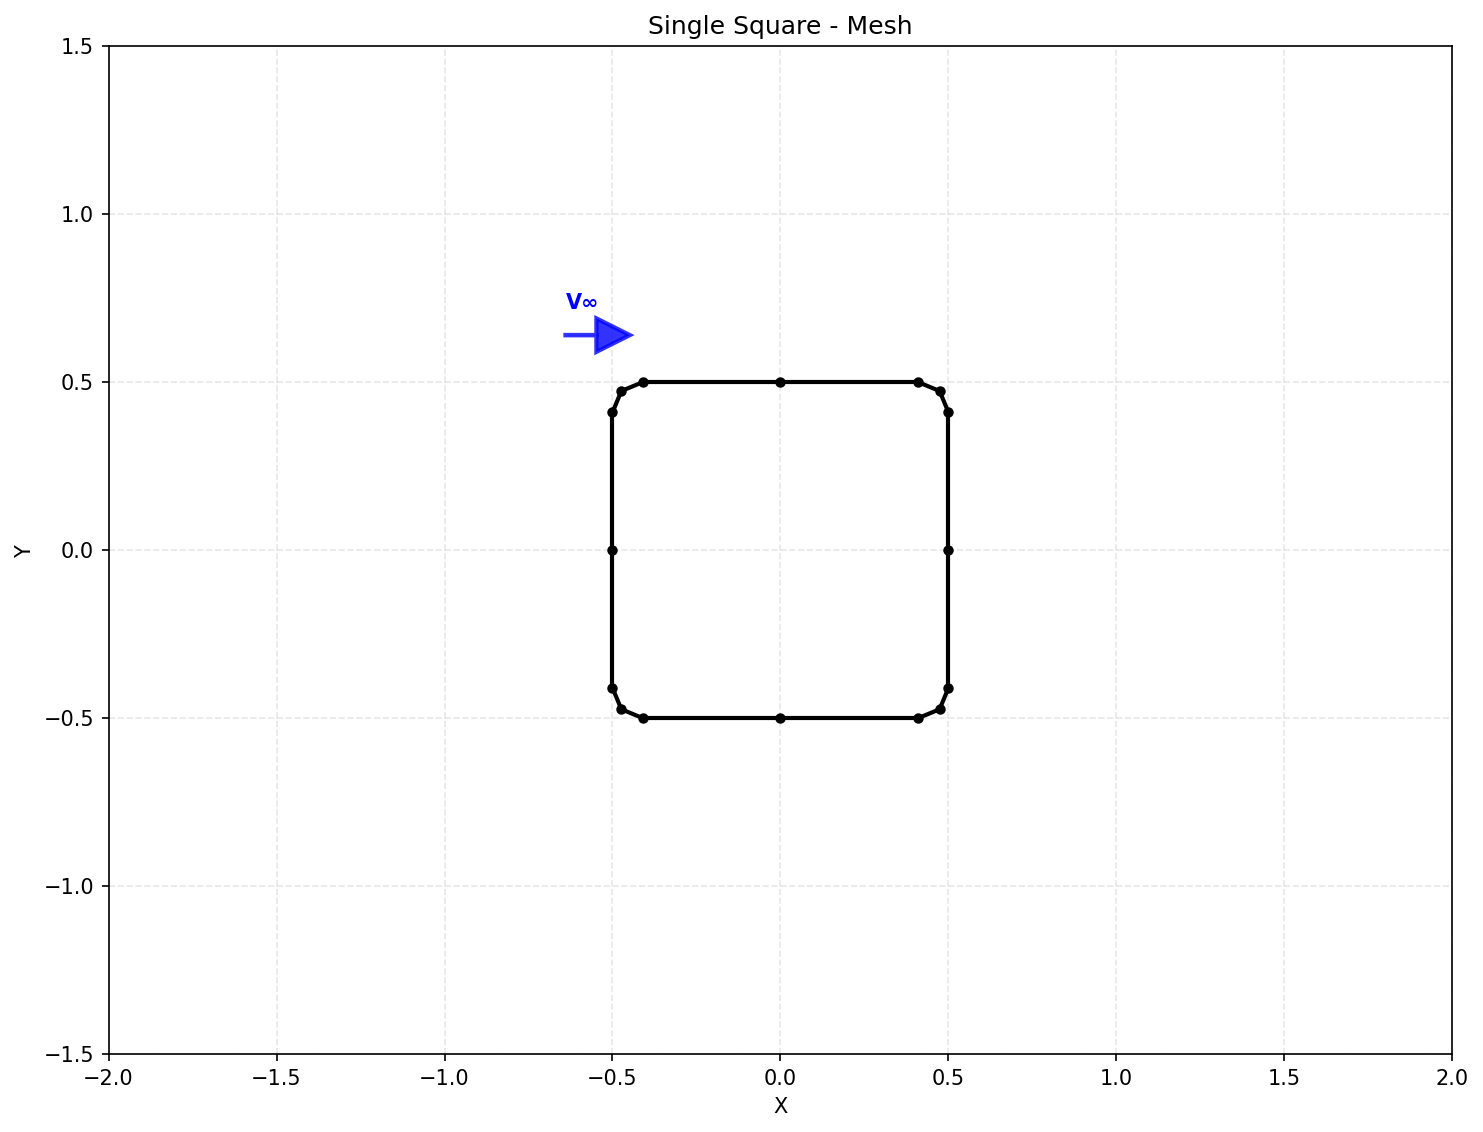
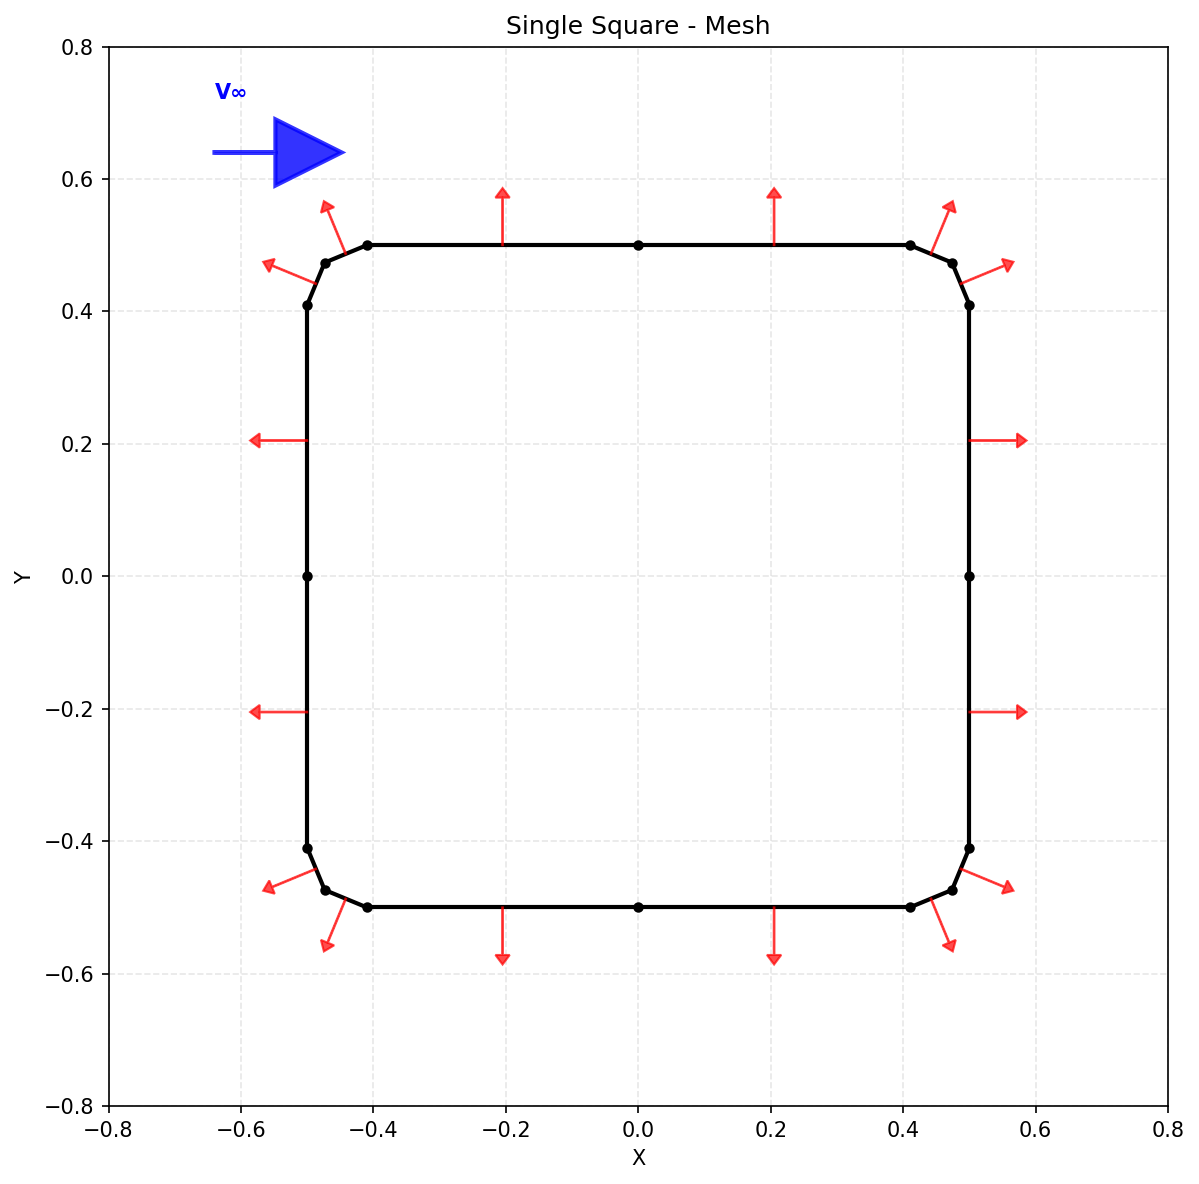
refactor surface potential and velocity computations; add potential influence function and update plotting parameters

diff --git a/src/solvers/panel2d/spm.py b/src/solvers/panel2d/spm.py
@@ -6,7 +6,7 @@ from pathlib import Path
 
 from core.geometry.mesh import Mesh
 from .base import PanelSolver2D, PanelMethodConfig
-from .influences import compute_source_influence_matrices, compute_source_velocity_influence
+from .influences import compute_source_influence_matrices, compute_source_velocity_influence,compute_source_potential_influence
 
 
 class SourcePanelSolver(PanelSolver2D):
@@ -110,7 +110,7 @@ class SourcePanelSolver(PanelSolver2D):
         
         return {"source": sigma}
     
-    def _compute_surface_velocity(
+    def _compute_surface_velocity_from_summing_influences(
         self,
         influence_matrices: dict,
         strengths: dict
@@ -141,6 +141,23 @@ class SourcePanelSolver(PanelSolver2D):
         # Total tangential velocity
         Vt = v_inf_tangential + induced_tangential
         
+        return Vt
+    
+    def _compute_surface_velocity(
+        self,
+        influence_matrices: dict,
+        strengths: dict
+    ) -> NDArray[np.float64]:
+        """
+        Compute tangential velocity at panel centers using potential gradient.
+    
+        This method is more robust than direct velocity influence summation,
+        especially at corners where curvature changes rapidly.
+        """
+        # Use potential-based approach
+        Vt = self._compute_surface_velocity_from_potential()
+        # Vt = self._compute_surface_velocity_from_summing_influences(influence_matrices, strengths);
+    
         return Vt
     
     def _velocity_at_points(
@@ -259,7 +276,7 @@ class SourcePanelSolver(PanelSolver2D):
         sigma_std = np.std(self._sigma)
         
         print(f"Source strength statistics:")
-        print(f"  Sum σ:     {sigma_sum:.2e} (should ≈ 0 for closed bodies)")
+        print(f"  Sum σ:     {sigma_sum:.2e} ")
         print(f"  Min σ:     {sigma_min:.6f}")
         print(f"  Max σ:     {sigma_max:.6f}")
         print(f"  Mean σ:    {sigma_mean:.6f}")
@@ -305,3 +322,103 @@ class SourcePanelSolver(PanelSolver2D):
             plt.show()
         else:
             plt.close(fig)
+
+    def _compute_surface_potential(self) -> NDArray[np.float64]:
+        """
+        Compute total velocity potential at each panel center.
+    
+        Returns:
+            (N,) array of potential values at panel centers
+        """
+        n_panels = len(self._mesh.panels)
+        centers = self._mesh.centers[:, :2]
+    
+        # Get panel endpoints
+        panel_start_indices = self._mesh.panels[:, 0]
+        panel_end_indices = self._mesh.panels[:, 1]
+        nodes_start = self._mesh.nodes[panel_start_indices, :2]
+        nodes_end = self._mesh.nodes[panel_end_indices, :2]
+    
+        # Perturbation potential from all source panels
+        phi_perturbation = np.zeros(n_panels)
+    
+        for i in range(n_panels):
+            point = centers[i]
+        
+            for j in range(n_panels):
+                if i == j:
+                    # Self-influence: use K&P Eq. 10.22a
+                    # At panel center: Φ = (σ/4π) * S * ln(S/2)² where S = panel length
+                    S = self._mesh.areas[j]
+                    self_coeff = S * np.log((S/2)**2)
+                else:
+                    self_coeff = compute_source_potential_influence(
+                        point=point,
+                        panel_start=nodes_start[j],
+                        panel_end=nodes_end[j]
+                    )
+            
+                phi_perturbation[i] += self._sigma[j] * self_coeff / (4 * np.pi)
+    
+        # Add freestream potential: Φ_∞ = U_∞*x + W_∞*z
+        phi_freestream = (
+            self.v_inf_vector[0] * centers[:, 0] + 
+            self.v_inf_vector[1] * centers[:, 1]
+        )
+    
+        phi_total = phi_perturbation + phi_freestream
+    
+        return phi_total
+    
+    
+    def _compute_surface_velocity_from_potential(self) -> NDArray[np.float64]:
+        """
+        Compute tangential velocity by differentiating potential along surface.
+    
+        V_t = -∂Φ/∂s where s is arc length along surface
+    
+        Returns:
+            (N,) array of tangential velocities
+        """
+        phi = self._compute_surface_potential()
+        n_panels = len(phi)
+    
+        # Compute arc length at panel centers
+        centers = self._mesh.centers[:, :2]
+    
+        # Arc length: cumulative distance along surface
+        # Assume panels are ordered sequentially around the body
+        arc_length = np.zeros(n_panels)
+        for i in range(1, n_panels):
+            arc_length[i] = arc_length[i-1] + np.linalg.norm(centers[i] - centers[i-1])
+    
+        # Close the loop: distance from last panel to first
+        total_arc = arc_length[-1] + np.linalg.norm(centers[0] - centers[-1])
+    
+        # Numerical differentiation: central difference with periodic BC
+        Vt = np.zeros(n_panels)
+    
+        for i in range(n_panels):
+            # Indices for central difference
+            i_plus = (i + 1) % n_panels
+            i_minus = (i - 1) % n_panels
+        
+            # Arc length differences (handle wrap-around)
+            if i == 0:
+                ds_minus = arc_length[0] + (total_arc - arc_length[-1])  # wrap
+            else:
+                ds_minus = arc_length[i] - arc_length[i_minus]
+        
+            if i == n_panels - 1:
+                ds_plus = total_arc - arc_length[i]  # wrap to first
+            else:
+                ds_plus = arc_length[i_plus] - arc_length[i]
+        
+            ds_total = ds_minus + ds_plus
+        
+            # Central difference: note the NEGATIVE sign (V_t = -dΦ/ds)
+            # Wait - actually for source panels, V_t = dΦ/ds (tangent points in +s direction)
+            # The sign depends on convention. Let's use V_t = (Φ_plus - Φ_minus) / ds
+            Vt[i] = (phi[i_plus] - phi[i_minus]) / ds_total
+    
+        return Vt    

diff --git a/src/visualization/surface_envelope.py b/src/visualization/surface_envelope.py
@@ -406,13 +406,12 @@ def plot_dual_surface_envelope(
     quantity_name: str = "Value",
     color1: str = 'blue',
     color2: str = 'red',
-    show_difference: bool = True,
+    show_difference: bool = False,
     title: Optional[str] = None,
     invert_values: bool = False,
 ) -> Tuple[Figure, Axes]:
     """
     Plot two distributions on the same body for direct comparison.
-    
     Useful for comparing panel method vs OpenFOAM on the same geometry.
     
     Args:
@@ -447,16 +446,17 @@ def plot_dual_surface_envelope(
     # Normalize each dataset independently so they both touch the body at their minima
     vmin1, vmax1 = np.nanmin(v1), np.nanmax(v1)
     vmin2, vmax2 = np.nanmin(v2), np.nanmax(v2)
-
+    
     value_range1 = vmax1 - vmin1 if vmax1 != vmin1 else 1.0
     value_range2 = vmax2 - vmin2 if vmax2 != vmin2 else 1.0
-
+    
     # Compute envelopes - each touches body at its minimum
     disp1 = (v1 - vmin1) / value_range1 * scale
     disp2 = (v2 - vmin2) / value_range2 * scale
     
     env1_x = x + disp1 * normals[:, 0]
     env1_y = y + disp1 * normals[:, 1]
+    
     env2_x = x + disp2 * normals[:, 0]
     env2_y = y + disp2 * normals[:, 1]
     
@@ -465,17 +465,25 @@ def plot_dual_surface_envelope(
     body_y = np.append(y, y[0])
     ax.plot(body_x, body_y, 'k-', linewidth=2.5, zorder=10, label='Body')
     
-    # Plot envelopes with fill
     for env_x, env_y, color, label, alpha in [
         (env1_x, env1_y, color1, label1, 0.25),
         (env2_x, env2_y, color2, label2, 0.25),
     ]:
-        polygon_x = np.concatenate([x, env_x[::-1], [x[0]]])
-        polygon_y = np.concatenate([y, env_y[::-1], [y[0]]])
+        # Filter out NaN values before plotting
+        valid_mask = ~(np.isnan(env_x) | np.isnan(env_y))
+        env_x_clean = env_x[valid_mask]
+        env_y_clean = env_y[valid_mask]
+        x_clean = x[valid_mask]
+        y_clean = y[valid_mask]
+    
+        # Build polygon from cleaned data
+        polygon_x = np.concatenate([x_clean, env_x_clean[::-1]])
+        polygon_y = np.concatenate([y_clean, env_y_clean[::-1]])
+    
         ax.fill(polygon_x, polygon_y, color=color, alpha=alpha, edgecolor='none')
-        
-        closed_x = np.append(env_x, env_x[0])
-        closed_y = np.append(env_y, env_y[0])
+    
+        closed_x = np.append(env_x_clean, env_x_clean[0])
+        closed_y = np.append(env_y_clean, env_y_clean[0])
         ax.plot(closed_x, closed_y, color=color, linewidth=1.5, label=label)
     
     # Show difference regions
@@ -486,7 +494,8 @@ def plot_dual_surface_envelope(
             # Highlight points with large differences
             threshold = max_diff * 0.5
             high_diff_mask = diff > threshold
-            # ax.scatter(x[high_diff_mask], y[high_diff_mask],         c='orange', s=20, zorder=15, label='High difference', alpha=0.7)
+            ax.scatter(x[high_diff_mask], y[high_diff_mask], 
+                      c='orange', s=20, zorder=15, label='High difference', alpha=0.7)
     
     ax.set_aspect('equal')
     ax.set_xlabel('x')

diff --git a/src/solvers/panel2d/influences/source.py b/src/solvers/panel2d/influences/source.py
@@ -68,7 +68,9 @@ def compute_source_influence_matrices(mesh: Mesh) -> Tuple[NDArray, NDArray]:
                 panel_angle=phi[j],
                 control_angle=phi[i]
             )
-    
+    from scipy.linalg import issymmetric
+    print("I: ", issymmetric(I))
+    print("J: ",issymmetric(J))
     return I, J
 
 
@@ -194,3 +196,76 @@ def compute_source_velocity_influence(
         My = 0.0
     
     return Mx, My
+
+def compute_source_potential_influence(
+    point: NDArray,
+    panel_start: NDArray,
+    panel_end: NDArray,
+) -> float:
+    """
+    Compute potential influence of a unit-strength source panel at a point.
+    
+    Based on K&P Eq. 10.14:
+    Φ = (σ/4π)[(x-x₁)ln(r₁²) - (x-x₂)ln(r₂²) + 2z(θ₂-θ₁)]
+    
+    Returns the coefficient such that Φ = σ * coefficient / (4π)
+    
+    Args:
+        point: (x, z) field point coordinates
+        panel_start: (x₁, z₁) panel start node (in panel's local frame, z=0)
+        panel_end: (x₂, z₂) panel end node
+    
+    Returns:
+        Potential influence coefficient (multiply by σ/(4π) to get Φ)
+    """
+    x, z = point[0], point[1]
+    x1, z1 = panel_start[0], panel_start[1]
+    x2, z2 = panel_end[0], panel_end[1]
+    
+    # Panel is along line from (x1,z1) to (x2,z2)
+    # Transform to panel-local coordinates where panel lies on local x-axis
+    
+    # Panel direction vector
+    dx_panel = x2 - x1
+    dz_panel = z2 - z1
+    panel_length = np.sqrt(dx_panel**2 + dz_panel**2)
+    
+    # Unit vectors along and normal to panel
+    tx = dx_panel / panel_length  # tangent x
+    tz = dz_panel / panel_length  # tangent z
+    # Normal: rotate tangent 90° CCW
+    nx = -tz
+    nz = tx
+    
+    # Transform point to panel-local coordinates
+    # Origin at panel_start, x-axis along panel
+    rel_x = x - x1
+    rel_z = z - z1
+    
+    x_local = rel_x * tx + rel_z * tz   # coordinate along panel
+    z_local = rel_x * nx + rel_z * nz   # coordinate normal to panel
+    
+    # In local coords: panel goes from (0, 0) to (S, 0) where S = panel_length
+    # Point is at (x_local, z_local)
+    S = panel_length
+    
+    # Distances and angles (K&P notation)
+    r1_sq = x_local**2 + z_local**2
+    r2_sq = (x_local - S)**2 + z_local**2
+    
+    # Prevent log(0)
+    r1_sq = max(r1_sq, 1e-20)
+    r2_sq = max(r2_sq, 1e-20)
+    
+    theta1 = np.arctan2(z_local, x_local)
+    theta2 = np.arctan2(z_local, x_local - S)
+    
+    # K&P Eq. 10.14 (the coefficient, without σ/(4π))
+    # Φ = (σ/4π)[x_local*ln(r1²) - (x_local-S)*ln(r2²) + 2*z_local*(θ2-θ1)]
+    potential_coeff = (
+        x_local * np.log(r1_sq) 
+        - (x_local - S) * np.log(r2_sq) 
+        + 2 * z_local * (theta2 - theta1)
+    )
+    
+    return potential_coeff

diff --git a/src/solvers/panel2d/base.py b/src/solvers/panel2d/base.py
@@ -150,6 +150,8 @@ class PanelSolver2D(Solver):
             influence_matrices, strengths
         )
         
+        self._surface_velocity = np.abs(self._surface_velocity) # To ease the comparison using plots because opernfom results gives only the magnitude.
+        
         # Store in mesh for backward compatibility with existing code
         self._mesh.cell_data['Vt'] = self._surface_velocity
         

diff --git a/src/solvers/panel2d/influences/__init__.py b/src/solvers/panel2d/influences/__init__.py
@@ -10,10 +10,12 @@ for different singularity types:
 
 from .source import (
     compute_source_influence_matrices,
-    compute_source_velocity_influence
+    compute_source_velocity_influence,
+    compute_source_potential_influence
 )
 
 __all__ = [
     'compute_source_influence_matrices',
     'compute_source_velocity_influence',
+    'compute_source_potential_influence'
 ]

diff --git a/src/core/io/case_loader.py b/src/core/io/case_loader.py
@@ -127,6 +127,8 @@ class CaseLoader:
             bc_type = bc_data.get("type", "wall")
             bc_value = bc_data.get("value", None)
             
+            # local_mesh.normals = -local_mesh.normals
+
             # Create component
             component = Component(
                 name=comp_config.name,
